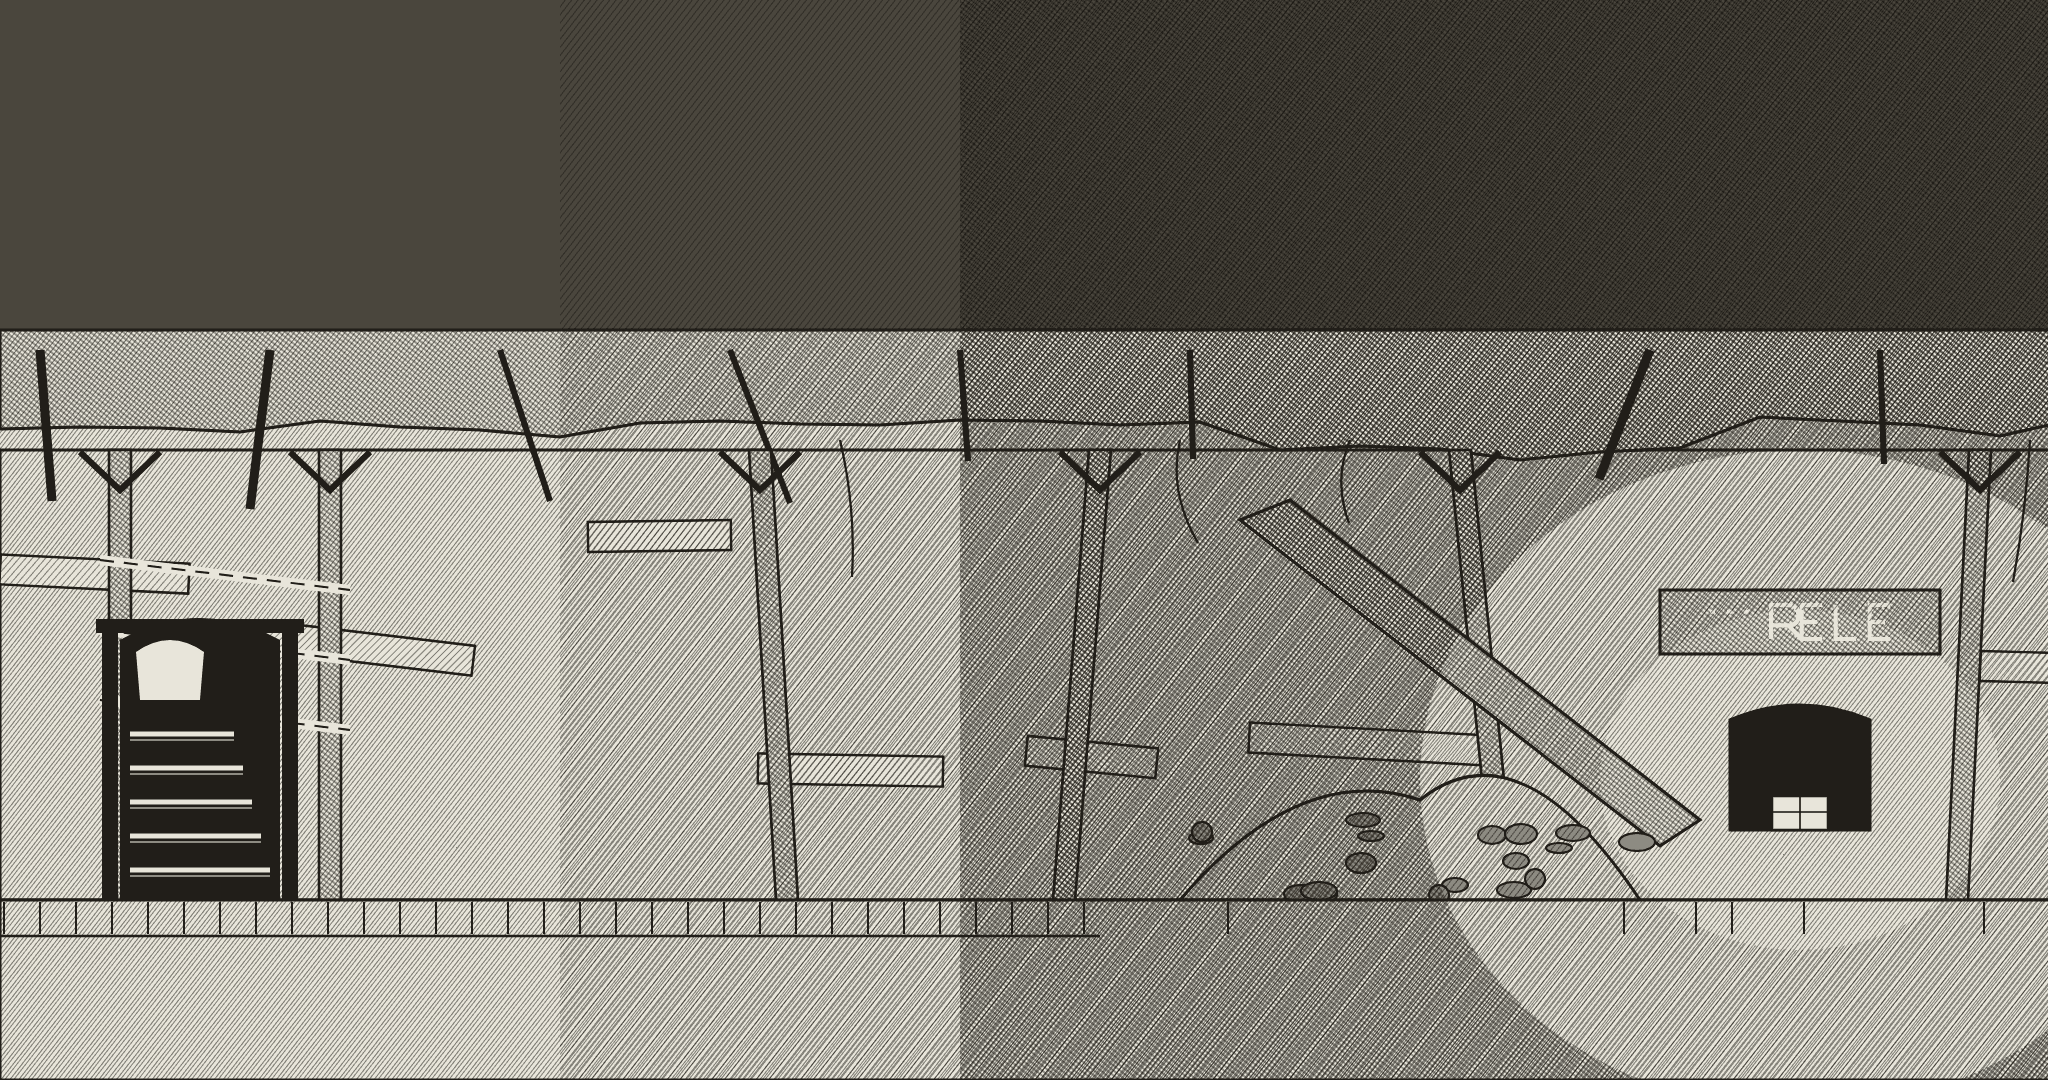
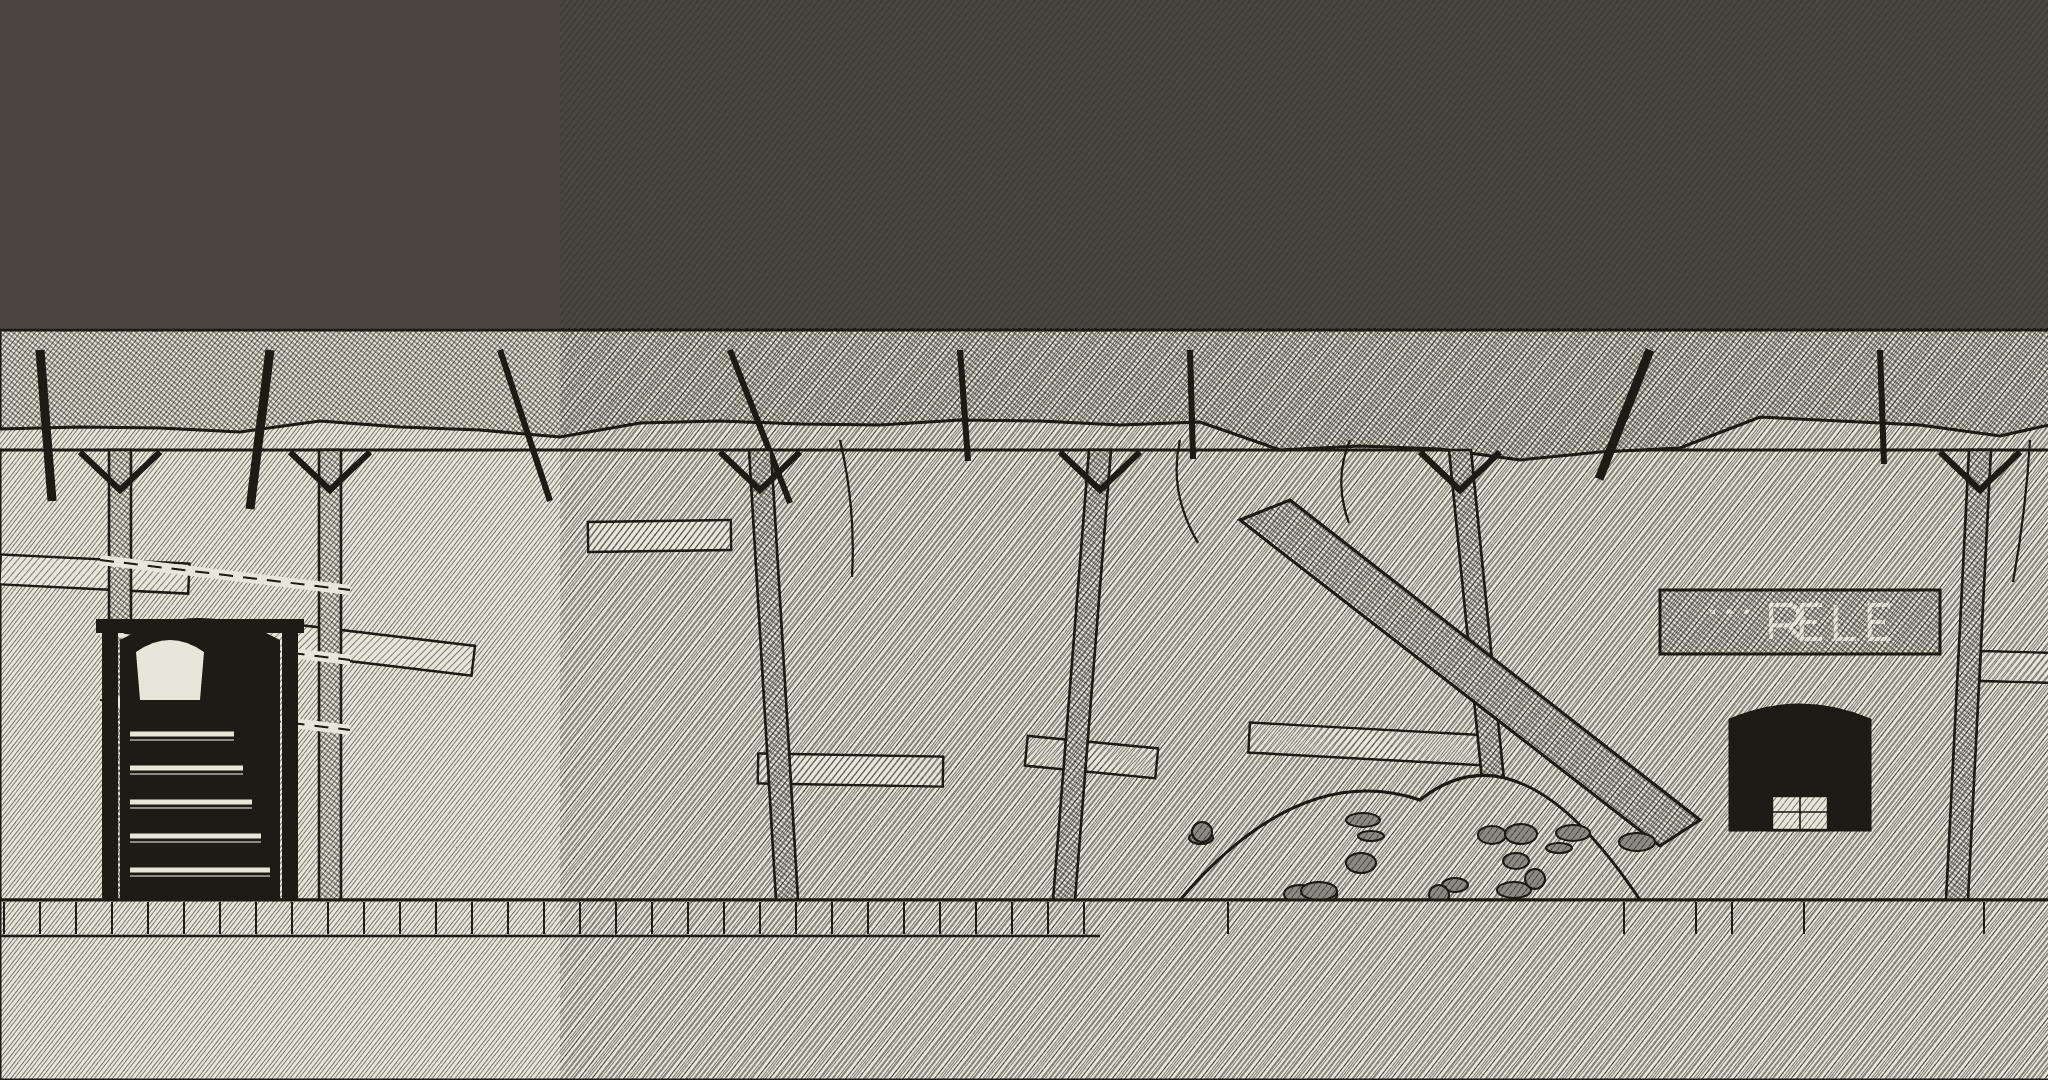
Vieille sape éclairée : pas d'anneau fixe, le battant réservé au noir
La lanterne suit Tobie : un anneau peint sur la niche ferait projecteur (GD).
La galerie éclairée est sous une simple hachure uniforme ; le petit battant
n'apparaît que dans la version noire (contenu exclusif de chaque choix).

Claude-Session: https://claude.ai/code/session_011WbKxBfoJbcyebqrVqkEA5

Changed region(s): [[0.4688, 0.0, 1.0, 1.0], [0.7812, 0.55, 0.9688, 0.8861], [0.9688, 0.9472, 1.0, 1.0]]

diff --git a/tools/gen_decors_e1_lieux.py b/tools/gen_decors_e1_lieux.py
@@ -12,8 +12,8 @@ Grammaire de la planche n° 4 : sous terre, la lumière est faite d'anneaux de h
 des sources (bougie, braise, jour en haut d'un escalier), jamais de dégradé. Hors des anneaux :
 hachure + contre-hachure ; dans l'anneau : hachure seule ; au cœur : le papier.
 La vieille sape (zone sombre) a deux versions : « noir » (tout sous la contre-hachure, seule
-une lueur au battant de cloche) et « lumiere » (lanterne : la niche à la ration et le mot gravé
-« ...RELE »). Le code choisit selon le choix fait à e1_sape. Le voile gris de la maquette
+une lueur au battant de cloche) et « lumiere » (lanterne : toute la galerie sous une simple hachure, sans anneau fixe,
+la niche à la ration et le mot gravé « ...RELE »). Le code choisit selon le choix fait à e1_sape. Le voile gris de la maquette
 (ZoneSombre/Visuel) est masqué par le code : l'obscurité est peinte ici.
 
 Usage : python3 tools/gen_decors_e1_lieux.py
@@ -336,9 +336,10 @@ def vieille_sape(allumee: bool) -> str:
                "M1786 612 v20 h12 "
                "M1818 612 h-12 v20 h12 m-12 -10 h9")
         out.append(f'<path d="{mot}" stroke="{PAPIER}" stroke-width="2.4" fill="none" transform="translate(1800 622) scale(1.7) translate(-1765 -622)"/>')
-    # le petit battant de cloche, tombé au sol (x 2500)
-    out.append(f'<path d="M2486 {SOL - 6} L2516 {SOL - 14}" {ST} stroke-width="4"/>')
-    out.append(f'<circle cx="2522" cy="{SOL - 15}" r="7" fill="{PAPIER}" {ST} stroke-width="2.4"/>')
+    # le petit battant de cloche, tombé au sol (x 2500) : seulement dans le noir (contenu exclusif)
+    if not allumee:
+        out.append(f'<path d="M2486 {SOL - 6} L2516 {SOL - 14}" {ST} stroke-width="4"/>')
+        out.append(f'<circle cx="2522" cy="{SOL - 15}" r="7" fill="{PAPIER}" {ST} stroke-width="2.4"/>')
     # sol défoncé
     out.append(f'<rect y="{SOL}" width="{w}" height="{H - SOL}" fill="url(#terre)" {ST} stroke-width="3"/>')
     for xc in range(0, w, 36):
@@ -348,14 +349,9 @@ def vieille_sape(allumee: bool) -> str:
     # l'obscurité, peinte (la ZoneSombre commence à x 560)
     cadre = f'maskUnits="userSpaceOnUse" x="0" y="0" width="{w}" height="{H}"'
     if allumee:
-        # la lanterne : la galerie sous une simple hachure, la niche et la poutre au clair
-        out.append(f'<mask id="vs-l" {cadre}><rect x="560" width="{w - 560}" height="{H}" fill="#fff"/>'
-                   f'<ellipse cx="1800" cy="{SOL - 120}" rx="200" ry="170" fill="#000"/></mask>')
-        out.append(f'<rect width="{w}" height="{H}" fill="url(#v1)" mask="url(#vs-l)"/>')
-        out.append(f'<mask id="vs-l2" {cadre}><rect x="560" width="{w - 560}" height="{H}" fill="#fff"/>'
-                   f'<ellipse cx="1800" cy="{SOL - 120}" rx="380" ry="330" fill="#000"/>'
-                   f'<rect x="560" width="400" height="{H}" fill="#000"/></mask>')
-        out.append(f'<rect width="{w}" height="{H}" fill="url(#v2)" mask="url(#vs-l2)"/>')
+        # la lanterne : Tobie la porte avec lui, donc pas d'anneau fixe (ce serait un projecteur sur
+        # la niche) ; toute la galerie sous une simple hachure, la niche et le mot en papier s'y lisent.
+        out.append(f'<rect x="560" width="{w - 560}" height="{H}" fill="url(#v1)"/>')
     else:
         # le noir : tout sous la contre-hachure, puis l'encre ; seule lueur, le battant
         out.append(f'<mask id="vs-n" {cadre}><rect x="560" width="{w - 560}" height="{H}" fill="#fff"/>'
